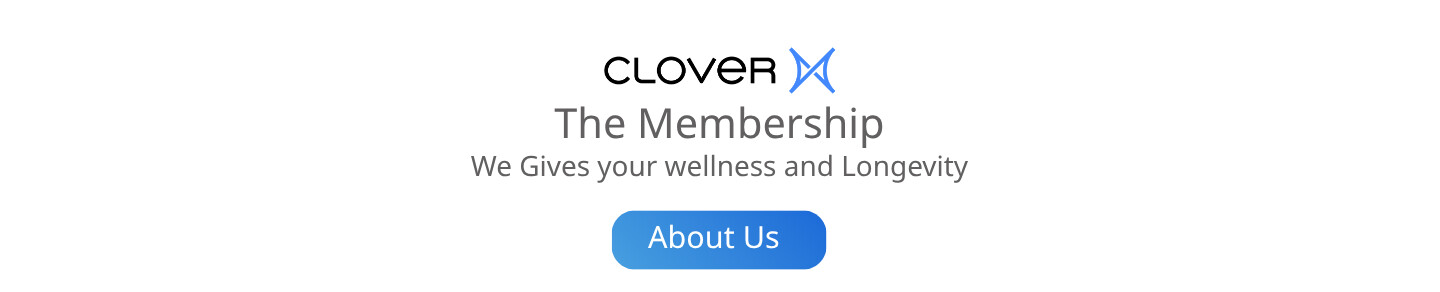
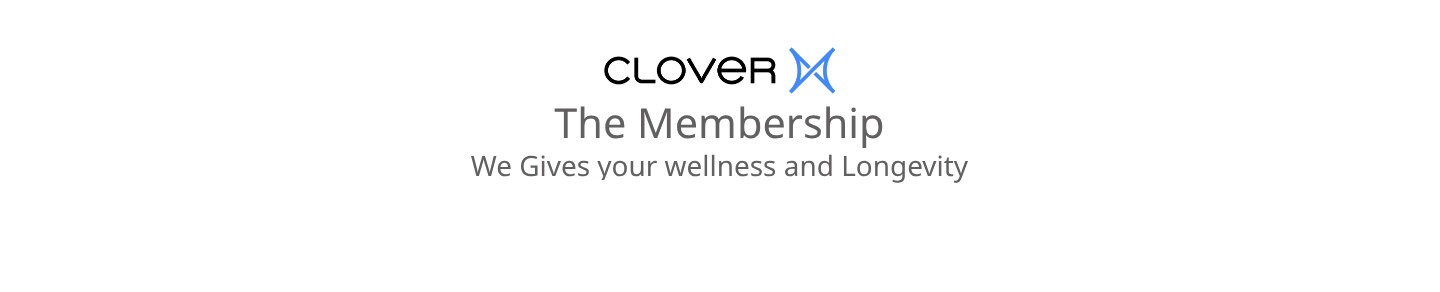
Homepage buttons: blue dimensional Explore/Shop/About Us, keep glassy Explore, fit fonts

Changed region(s): [[0.4062, 0.7089, 0.5938, 0.9247], [0.5625, 0.2466, 0.5938, 0.2774]]

diff --git a/index.html b/index.html
@@ -1,5 +1,6 @@
 <!doctype html><html lang="th"><head><meta charset="utf-8"><meta name="viewport" content="width=device-width,initial-scale=1">
 <title>CloverX · XIRCLE</title>
+<link rel="stylesheet" href="https://fonts.googleapis.com/css2?family=Manrope:wght@600;700;800&display=swap">
 <style>
 *{margin:0;padding:0;box-sizing:border-box}
 body{background:#fff}
@@ -8,16 +9,27 @@ body{background:#fff}
 .xsec img{width:100%;display:block}
 #brands,#features{margin-top:52px}
 #membership{margin:30px 0}
-/* พื้นที่คลิกทั้งการ์ด/เมนู — โปร่งใส ไม่ทับดีไซน์เดิม */
 .hot{position:absolute;display:block;background:transparent;border:0;cursor:pointer;padding:0;z-index:2}
-/* ปุ่มในรูป (Explore / Shop / About Us) — โปร่งใสวางทับปุ่มจริงในภาพพอดี
-   ให้ความรู้สึก "มีมิติ" เวลาชี้/กด โดยไม่วาดปุ่มซ้อนใหม่ */
+/* ===== ปุ่มจริง มีมิติแบบ Oura: มีเงานุ่มตั้งแต่ตอนวางอยู่ · hover ยกตัว · กดแล้วยุบ ===== */
+.btn3d{position:absolute;z-index:5;display:inline-flex;align-items:center;justify-content:center;
+  border:0;border-radius:999px;color:#fff;font-family:"Manrope",system-ui,-apple-system,sans-serif;
+  font-weight:700;letter-spacing:.2px;cursor:pointer;text-decoration:none;line-height:1;white-space:nowrap;
+  -webkit-tap-highlight-color:transparent;
+  transition:transform .17s cubic-bezier(.34,1.4,.5,1),box-shadow .17s cubic-bezier(.4,0,.2,1),filter .17s ease;
+  will-change:transform}
+/* น้ำเงิน (Explore hero · Shop · About Us) */
+.btn3d.blue{background:linear-gradient(180deg,#3D8CEC 0%,#1E6FD4 100%);
+  box-shadow:0 8px 20px -5px rgba(20,85,190,.55),0 2px 5px -1px rgba(20,85,190,.35),inset 0 1px 0 rgba(255,255,255,.35),inset 0 -2px 5px rgba(10,55,140,.35)}
+.btn3d.blue:hover{transform:translateY(-3px) scale(1.035);
+  box-shadow:0 18px 34px -8px rgba(20,85,190,.6),0 4px 10px -2px rgba(20,85,190,.4),inset 0 1px 0 rgba(255,255,255,.4),inset 0 -2px 5px rgba(10,55,140,.35);filter:brightness(1.04)}
+.btn3d.blue:active{transform:translateY(2px) scale(.975);
+  box-shadow:0 3px 8px -3px rgba(20,85,190,.55),inset 0 2px 6px rgba(8,45,120,.45)}
+/* ปุ่มเทา "Explore" — คงดีไซน์ใส ๆ เดิมในภาพไว้ (ไม่ทับสีทึบ) แค่ใส่จังหวะกด/ชี้เบา ๆ */
 .pbtn{position:absolute;z-index:5;border:0;padding:0;cursor:pointer;background:transparent;
   border-radius:999px;-webkit-tap-highlight-color:transparent;
-  transition:transform .14s cubic-bezier(.4,0,.2,1),box-shadow .14s cubic-bezier(.4,0,.2,1);
-  will-change:transform}
-.pbtn:hover{transform:translateY(-2px) scale(1.03);box-shadow:0 12px 26px -8px rgba(0,0,0,.38)}
-.pbtn:active{transform:translateY(1px) scale(.965);box-shadow:inset 0 0 0 120px rgba(0,0,0,.10)}
+  transition:transform .16s cubic-bezier(.4,0,.2,1),box-shadow .16s cubic-bezier(.4,0,.2,1);will-change:transform}
+.pbtn:hover{transform:translateY(-2px) scale(1.03);box-shadow:0 12px 24px -8px rgba(0,0,0,.45)}
+.pbtn:active{transform:translateY(1px) scale(.965);box-shadow:inset 0 0 0 120px rgba(0,0,0,.12)}
 </style></head>
 <body>
 <div class="xwrap">
@@ -27,7 +39,7 @@ body{background:#fff}
     <img src="hero.jpg" alt="XIRCLE">
     <a class="hot" href="/preorder" style="left:12.5%;top:1.5%;width:7%;height:7%" aria-label="Shop"></a>
     <a class="hot" href="/preorder" style="left:93%;top:2%;width:4.5%;height:8%" aria-label="ตะกร้า"></a>
-    <a class="pbtn" href="/preorder" style="left:45%;top:81.4%;width:10%;height:7.4%" aria-label="Explore"></a>
+    <a class="btn3d blue" href="/preorder" style="left:45%;top:81.4%;width:10%;height:7.4%;font-size:clamp(16px,2vw,29px)">Explore</a>
   </div>
 
   <!-- BRAND CARDS -->
@@ -35,16 +47,16 @@ body{background:#fff}
     <img src="brands.jpg" alt="Xircle Brand">
     <a class="hot" href="/preorder" style="left:0.5%;top:1%;width:49%;height:84%" aria-label="Xircle Brand Stainless"></a>
     <a class="hot" href="/preorder" style="left:50.5%;top:1%;width:49%;height:84%" aria-label="Xircle Brand Nylon"></a>
-    <a class="pbtn" href="/preorder" style="left:33.3%;top:87.6%;width:6.9%;height:7.6%" aria-label="Explore Stainless"></a>
-    <a class="pbtn" href="/preorder" style="left:40.5%;top:87.6%;width:7.6%;height:7.6%" aria-label="Shop Stainless"></a>
-    <a class="pbtn" href="/preorder" style="left:84.6%;top:87.6%;width:6.2%;height:7.6%" aria-label="Explore Nylon"></a>
-    <a class="pbtn" href="/preorder" style="left:91.7%;top:87.6%;width:7.5%;height:7.6%" aria-label="Shop Nylon"></a>
+    <a class="pbtn" href="/preorder" style="left:33.6%;top:88.1%;width:6.3%;height:6.7%" aria-label="Explore Stainless"></a>
+    <a class="btn3d blue" href="/preorder" style="left:40.5%;top:87.6%;width:7.6%;height:7.6%;font-size:clamp(11px,1.35vw,20px)">Shop</a>
+    <a class="pbtn" href="/preorder" style="left:85%;top:88.2%;width:5.2%;height:6%" aria-label="Explore Nylon"></a>
+    <a class="btn3d blue" href="/preorder" style="left:91.7%;top:87.6%;width:7.5%;height:7.6%;font-size:clamp(11px,1.35vw,20px)">Shop</a>
   </div>
 
   <!-- MEMBERSHIP -->
   <div class="xsec" id="membership">
     <img src="membership.jpg" alt="The Membership">
-    <a class="pbtn" href="#about" style="left:42.3%;top:71%;width:15.2%;height:22%" aria-label="About Us"></a>
+    <a class="btn3d blue" href="#about" style="left:42.3%;top:71%;width:15.4%;height:21%;font-size:clamp(18px,2.4vw,34px)">About Us</a>
   </div>
 
   <!-- FEATURE CARDS -->
